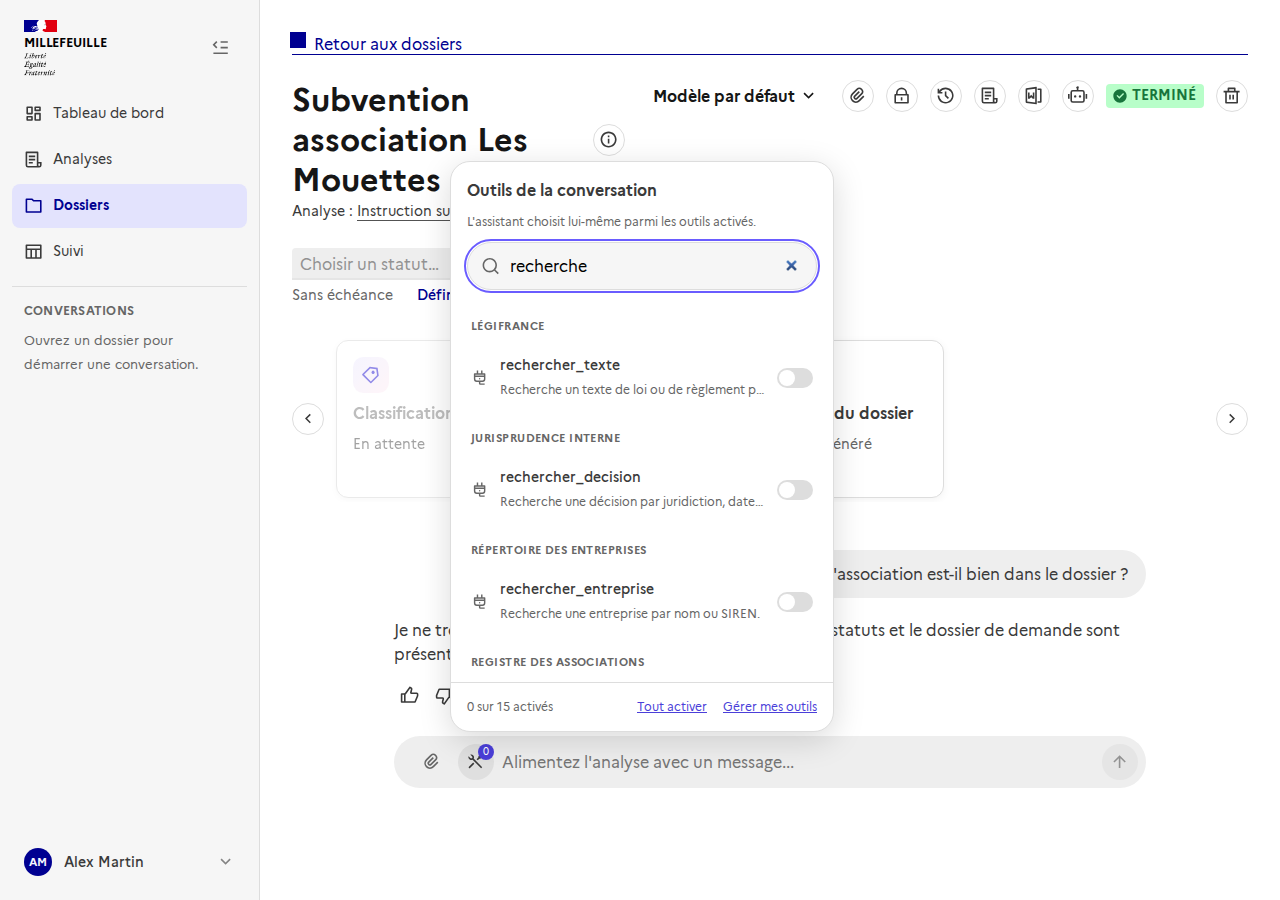
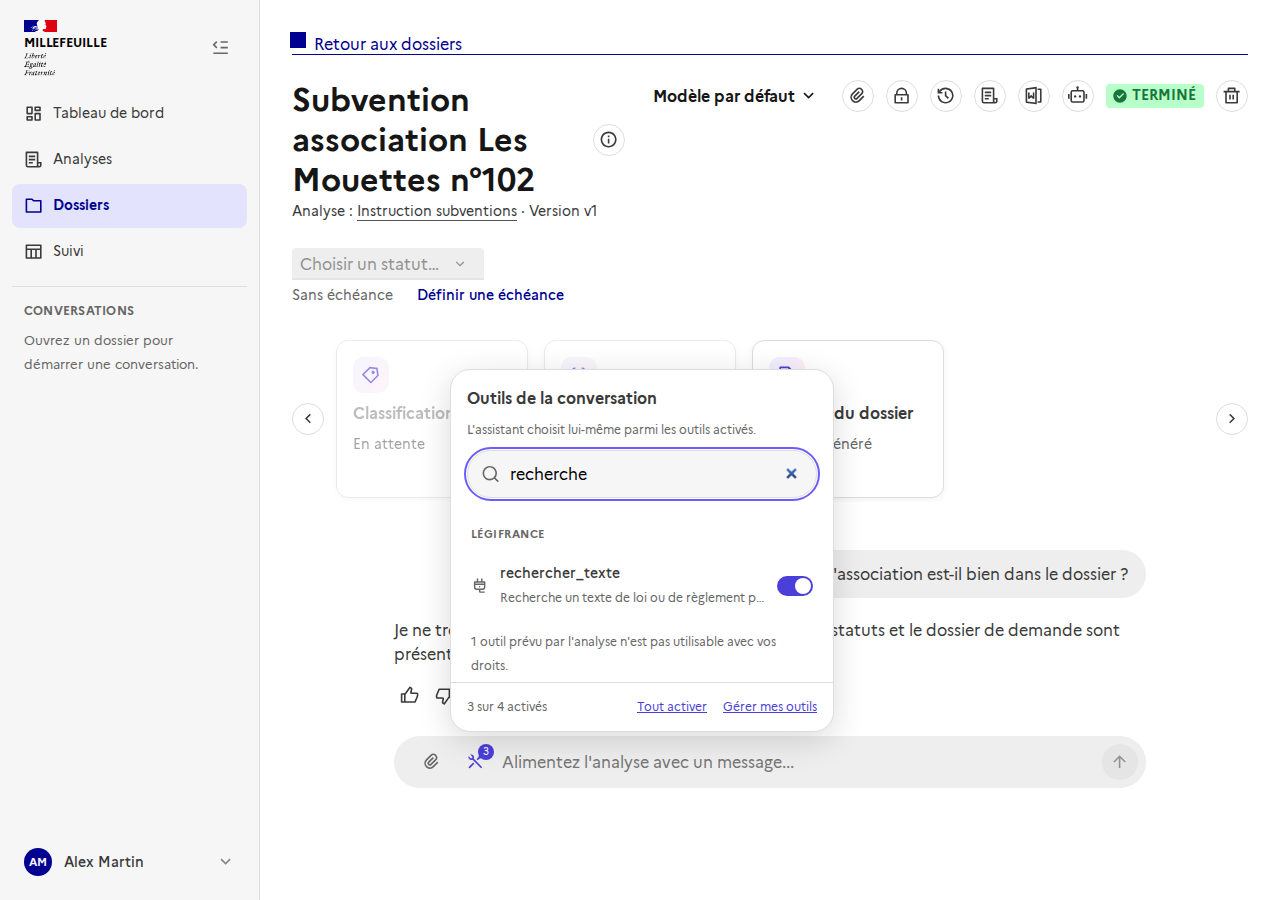
feat(tools): menu des outils du chat branché sur l'API, plus de données simulées
Le menu liste les outils de l'analyse, groupés par serveur, avec un interrupteur par outil ; le
choix est enregistré pour la conversation. Un outil qui modifie des données est montré verrouillé
avec la raison ; un outil prévu mais inaccessible est signalé. Sans outil, pas de menu.
La carte de confirmation reste simulée et masquée.

diff --git a/frontend/src/components/tools/ChatToolsMenu.vue b/frontend/src/components/tools/ChatToolsMenu.vue
@@ -1,19 +1,22 @@
 <script setup lang="ts">
-import { computed, onBeforeUnmount, onMounted, ref } from "vue";
+import { computed, onBeforeUnmount, onMounted, ref, toRef, watch } from "vue";
 
 import ChatToolsMenuRow from "@/components/tools/ChatToolsMenuRow.vue";
 import ToolSearchInput from "@/components/tools/ToolSearchInput.vue";
-import { useTools } from "@/composables/useTools";
-import type { Tool } from "@/types/tool";
+import { useConversationTools } from "@/composables/useConversationTools";
+import type { ChatTool } from "@/types/chatTool";
 import { matchesSearch } from "@/utils/toolSearch";
 
-// `toolIds` : les outils que l'analyse autorise ; `activeIds` : ceux que la personne laisse actifs pour cette
-// conversation. Elle ne peut que retirer, jamais ajouter un outil que l'analyse n'autorise pas.
-const props = defineProps<{ toolIds: string[] }>();
-const activeIds = defineModel<string[]>("activeIds", { required: true });
+// Les outils que l'analyse autorise pour cette conversation. L'assistant choisit lui-même parmi ceux qui sont activés ;
+// la personne ne peut que retirer, jamais ajouter un outil que l'analyse n'autorise pas.
+const props = defineProps<{ dossierId: string; conversationId: string | undefined }>();
 
-const { internalTools, servers, fetchTools } = useTools();
-onMounted(() => fetchTools());
+const { tools, excluded, unavailable, error, load, setExcluded } = useConversationTools(
+  props.dossierId,
+  toRef(props, "conversationId"),
+);
+onMounted(load);
+watch(() => props.conversationId, load);
 
 const root = ref<HTMLElement>();
 const opened = ref(false);
@@ -22,36 +25,37 @@ const query = ref("");
 interface Section {
   id: string;
   title: string;
-  tools: Tool[];
+  tools: ChatTool[];
 }
 
-const sections = computed<Section[]>(() =>
-  [
-    { id: "internal", title: "Outils internes", tools: internalTools.value },
-    ...servers.value.map((server) => ({ id: server.id, title: server.name, tools: server.tools })),
-  ]
-    .map((section) => ({
-      ...section,
-      tools: section.tools.filter(
-        (tool) => props.toolIds.includes(tool.id) && matchesSearch(query.value, `${tool.name} ${tool.description} ${section.title}`),
-      ),
-    }))
-    .filter((section) => section.tools.length > 0),
-);
+const sections = computed<Section[]>(() => {
+  const matching = tools.value.filter((tool) =>
+    matchesSearch(query.value, `${tool.name} ${tool.description} ${tool.serverName ?? ""}`),
+  );
+  const internal = matching.filter((tool) => tool.kind === "internal");
+  const byServer = new Map<string, ChatTool[]>();
+  for (const tool of matching.filter((candidate) => candidate.kind === "mcp")) {
+    byServer.set(tool.serverName ?? "", [...(byServer.get(tool.serverName ?? "") ?? []), tool]);
+  }
+  return [
+    { id: "internal", title: "Outils internes", tools: internal },
+    ...[...byServer].map(([name, list]) => ({ id: name, title: name, tools: list })),
+  ].filter((section) => section.tools.length > 0);
+});
 
-const isRestricted = computed(() => activeIds.value.length < props.toolIds.length);
+// Seuls les outils que le modèle peut appeler comptent : un outil qui modifie des données est montré, désactivé.
+const callable = computed(() => tools.value.filter((tool) => tool.givenToModel));
+const activeCount = computed(() => callable.value.filter((tool) => !excluded.value.includes(tool.id)).length);
+const isRestricted = computed(() => activeCount.value < callable.value.length);
+const hasAnything = computed(() => tools.value.length > 0 || unavailable.value.length > 0);
 
-function isActive(id: string) {
-  return activeIds.value.includes(id);
-}
+const isActive = (tool: ChatTool) => tool.givenToModel && !excluded.value.includes(tool.id);
 
 function setActive(id: string, active: boolean) {
-  activeIds.value = active ? [...activeIds.value, id] : activeIds.value.filter((activeId) => activeId !== id);
+  setExcluded(active ? excluded.value.filter((removed) => removed !== id) : [...excluded.value, id]);
 }
 
-function enableAll() {
-  activeIds.value = [...props.toolIds];
-}
+const enableAll = () => setExcluded([]);
 
 function onDocumentClick(event: MouseEvent) {
   if (opened.value && root.value && !root.value.contains(event.target as Node)) opened.value = false;
@@ -72,7 +76,7 @@ onBeforeUnmount(() => {
 </script>
 
 <template>
-  <div ref="root" class="chat-tools-menu">
+  <div v-if="hasAnything" ref="root" class="chat-tools-menu">
     <button
       type="button"
       class="chat-tools-menu__trigger"
@@ -83,7 +87,7 @@ onBeforeUnmount(() => {
       @click="opened = !opened"
     >
       <VIcon name="ri-tools-line" />
-      <span v-if="isRestricted" class="chat-tools-menu__count">{{ activeIds.length }}</span>
+      <span v-if="isRestricted" class="chat-tools-menu__count">{{ activeCount }}</span>
     </button>
 
     <div v-if="opened" class="chat-tools-menu__panel" role="dialog" aria-label="Outils de la conversation">
@@ -100,17 +104,23 @@ onBeforeUnmount(() => {
             <ChatToolsMenuRow
               v-for="tool in section.tools"
               :key="tool.id"
-              :model-value="isActive(tool.id)"
+              :model-value="isActive(tool)"
               :tool="tool"
               @update:model-value="setActive(tool.id, $event)"
             />
           </ul>
         </section>
         <p v-if="sections.length === 0" class="chat-tools-menu__empty">Aucun outil ne correspond.</p>
+        <p v-if="unavailable.length > 0" class="chat-tools-menu__unavailable">
+          {{ unavailable.length }} outil{{ unavailable.length > 1 ? "s" : "" }} prévu{{ unavailable.length > 1 ? "s" : "" }}
+          par l'analyse {{ unavailable.length > 1 ? "ne sont" : "n'est" }} pas utilisable{{ unavailable.length > 1 ? "s" : "" }}
+          avec vos droits.
+        </p>
+        <p v-if="error" class="chat-tools-menu__unavailable" role="alert">{{ error }}</p>
       </div>
 
       <div class="chat-tools-menu__footer">
-        <span>{{ activeIds.length }} sur {{ toolIds.length }} activés</span>
+        <span>{{ activeCount }} sur {{ callable.length }} activés</span>
         <button v-if="isRestricted" type="button" class="chat-tools-menu__link" @click="enableAll">Tout activer</button>
         <RouterLink to="/outils" class="chat-tools-menu__link">Gérer mes outils</RouterLink>
       </div>
@@ -219,6 +229,12 @@ onBeforeUnmount(() => {
   margin: 1.5rem 0;
   text-align: center;
   font-size: 0.875rem;
+  color: var(--text-mention-grey);
+}
+
+.chat-tools-menu__unavailable {
+  margin: 0.75rem 0.75rem 0.25rem;
+  font-size: 0.75rem;
   color: var(--text-mention-grey);
 }
 

diff --git a/frontend/src/composables/useConversationTools.ts b/frontend/src/composables/useConversationTools.ts
@@ -1,0 +1,73 @@
+import { ref, type Ref } from "vue";
+
+import type { ChatTool } from "@/types/chatTool";
+import { apiFetch } from "@/utils/api";
+
+// Les outils d'une conversation du chat : ceux que l'analyse autorise (ses agents), moins ceux que la personne a
+// retirés. Par défaut tout est actif et le modèle choisit ; la personne ne peut que retirer.
+
+interface ChatToolOut {
+  id: string;
+  name: string;
+  description: string;
+  kind: "internal" | "mcp";
+  server_name: string | null;
+  side_effect: boolean;
+  given_to_model: boolean;
+}
+
+interface ConversationToolsOut {
+  tools: ChatToolOut[];
+  excluded: string[];
+  unavailable: string[];
+}
+
+const toChatTool = (raw: ChatToolOut): ChatTool => ({
+  id: raw.id,
+  name: raw.name,
+  description: raw.description,
+  kind: raw.kind,
+  serverName: raw.server_name,
+  sideEffect: raw.side_effect,
+  givenToModel: raw.given_to_model,
+});
+
+export function useConversationTools(dossierId: string, conversationId: Ref<string | undefined>) {
+  const tools = ref<ChatTool[]>([]);
+  const excluded = ref<string[]>([]);
+  const unavailable = ref<string[]>([]);
+  const error = ref("");
+
+  const url = () => `/api/dossiers/${dossierId}/conversations/${conversationId.value}/tools`;
+
+  function apply(data: ConversationToolsOut) {
+    tools.value = data.tools.map(toChatTool);
+    excluded.value = data.excluded;
+    unavailable.value = data.unavailable;
+  }
+
+  async function load() {
+    if (!conversationId.value) return;
+    error.value = "";
+    try {
+      apply(await apiFetch<ConversationToolsOut>(url()));
+    } catch (e) {
+      error.value = e instanceof Error ? e.message : "Impossible de charger les outils.";
+    }
+  }
+
+  /** Retire ces outils pour la conversation (les autres restent actifs). La liste change tout de suite, puis l'API confirme. */
+  async function setExcluded(ids: string[]) {
+    if (!conversationId.value) return;
+    const previous = excluded.value;
+    excluded.value = ids;
+    try {
+      apply(await apiFetch<ConversationToolsOut>(url(), { method: "PUT", body: JSON.stringify({ excluded: ids }) }));
+    } catch (e) {
+      excluded.value = previous;
+      error.value = e instanceof Error ? e.message : "Impossible d'enregistrer ce choix.";
+    }
+  }
+
+  return { tools, excluded, unavailable, error, load, setExcluded };
+}

diff --git a/frontend/src/components/tools/ChatToolsMenuRow.vue b/frontend/src/components/tools/ChatToolsMenuRow.vue
@@ -1,21 +1,31 @@
 <script setup lang="ts">
-import type { Tool } from "@/types/tool";
+import type { ChatTool } from "@/types/chatTool";
 
-defineProps<{ tool: Tool }>();
+defineProps<{ tool: ChatTool }>();
 const active = defineModel<boolean>({ required: true });
 </script>
 
 <template>
-  <li class="chat-tools-row">
+  <li class="chat-tools-row" :class="{ 'chat-tools-row--locked': !tool.givenToModel }">
     <span class="chat-tools-row__icon"><VIcon :name="tool.kind === 'mcp' ? 'ri-plug-line' : 'ri-tools-line'" scale="0.9" /></span>
     <span class="chat-tools-row__text" :title="tool.description">
       <span class="chat-tools-row__name">
         {{ tool.name }}
-        <VIcon v-if="tool.sideEffect" name="ri-edit-2-line" scale="0.7" class="chat-tools-row__edit" title="Demande une confirmation avant appel" />
+        <VIcon v-if="tool.sideEffect" name="ri-edit-2-line" scale="0.7" class="chat-tools-row__edit" />
       </span>
-      <span class="chat-tools-row__description">{{ tool.description }}</span>
+      <span class="chat-tools-row__description">
+        <template v-if="!tool.givenToModel">Modifie des données : pas encore utilisable dans le chat (confirmation à venir)</template>
+        <template v-else>{{ tool.description }}</template>
+      </span>
     </span>
-    <input v-model="active" type="checkbox" role="switch" class="chat-tools-row__switch" :aria-label="tool.name" />
+    <input
+      v-model="active"
+      type="checkbox"
+      role="switch"
+      class="chat-tools-row__switch"
+      :aria-label="tool.name"
+      :disabled="!tool.givenToModel"
+    />
   </li>
 </template>
 
@@ -30,6 +40,10 @@ const active = defineModel<boolean>({ required: true });
 
 .chat-tools-row:hover {
   background: var(--background-alt-grey);
+}
+
+.chat-tools-row--locked {
+  opacity: 0.6;
 }
 
 .chat-tools-row__icon {
@@ -72,6 +86,10 @@ const active = defineModel<boolean>({ required: true });
   background: var(--border-default-grey);
   cursor: pointer;
   transition: background 0.15s ease;
+}
+
+.chat-tools-row__switch:disabled {
+  cursor: not-allowed;
 }
 
 .chat-tools-row__switch::after {

diff --git a/frontend/src/pages/DossierDetailPage.vue b/frontend/src/pages/DossierDetailPage.vue
@@ -23,7 +23,6 @@ import ChatToolsMenu from "@/components/tools/ChatToolsMenu.vue";
 import ToolConfirmCard from "@/components/tools/ToolConfirmCard.vue";
 import { useConversations } from "@/composables/useConversations";
 import { useToolConfirmation } from "@/composables/useToolConfirmation";
-import { useChatTools } from "@/composables/useChatTools";
 import { TOOLS_PREVIEW } from "@/utils/featureFlags";
 import { useDossiers } from "@/composables/useDossiers";
 import { useHelperAgent } from "@/composables/useHelperAgent";
@@ -157,10 +156,7 @@ function onModelChange(value: string) {
   setModel(value || null);
 }
 
-// Aperçu (phase 1, données simulées) : outils de l'analyse et confirmation avant un tool qui modifie des données.
-const { chatToolIds } = useChatTools();
-// Outils laissés actifs pour cette conversation : tout est actif par défaut, la personne ne peut que retirer.
-const activeChatToolIds = ref<string[]>(chatToolIds());
+// Confirmation avant un outil qui modifie des données : aperçu simulé (#342), masqué par défaut.
 const { pendingToolCall, resolveToolCall } = useToolConfirmation();
 
 const dossier = computed(() => dossiers.value.find((d) => d.id === dossierId));
@@ -535,8 +531,8 @@ async function onDeleteConversation() {
         />
       </template>
 
-      <template v-if="TOOLS_PREVIEW" #composer-actions>
-        <ChatToolsMenu v-model:active-ids="activeChatToolIds" :tool-ids="chatToolIds()" />
+      <template #composer-actions>
+        <ChatToolsMenu :dossier-id="dossierId" :conversation-id="conversation?.id" />
       </template>
 
       <template #message-extra="{ message }">

diff --git a/frontend/src/types/chatTool.ts b/frontend/src/types/chatTool.ts
@@ -1,0 +1,13 @@
+/** Un outil que l'analyse autorise pour le chat d'un dossier, tel que cette personne peut l'utiliser. */
+export interface ChatTool {
+  id: string;
+  name: string;
+  description: string;
+  kind: "internal" | "mcp";
+  /** Le serveur MCP d'où il vient ; null pour un outil interne. */
+  serverName: string | null;
+  /** Il modifie des données : il demandera une confirmation. */
+  sideEffect: boolean;
+  /** Le modèle peut-il l'appeler ? Faux pour un outil qui modifie des données, tant qu'il n'y a pas de confirmation. */
+  givenToModel: boolean;
+}

diff --git a/docs/frontend/tools/README.md b/docs/frontend/tools/README.md
@@ -9,14 +9,15 @@
 | **Mes outils** (`/outils`) : liste, recherche, pagination, ajout d'un serveur MCP, import, actualiser, supprimer | **réel**, branché sur l'API (#333, #334, #335) | `page-outils*.png`, `ajout-serveur*.png`, `import-tools.png` |
 | **Outils d'un agent** : sélecteur (recherche, filtres, pagination), enregistrement, historique et restauration, outil devenu indisponible | **réel** (#336, #337) | `selecteur-*.png`, `agent-*.png` |
 | **Test unitaire** d'un outil MCP : demande, choix du modèle, sortie brute | **réel** (#339) ; réservé aux tools MCP (les internes sont exécutés par le worker) | `test-outil-*.png` |
-| Menu des outils du chat, confirmation avant un outil qui modifie des données | simulé (#341, #342) | `chat-*.png` |
+| **Menu des outils du chat** : outils de l'analyse, retrait par conversation, outil qui modifie des données verrouillé | **réel** (#341) | `chat-menu-*.png`, `chat-outils*.png` |
+| Confirmation avant un outil qui modifie des données | simulé (#342) | `chat-confirmation.png` |
 | Collections de la base de connaissances d'une analyse | simulé, épique « base de connaissances » à venir | `collections-*.png` |
 
 ## Les écrans simulés sont masqués par défaut
 
 Une seule bascule, `VITE_TOOLS_PREVIEW` (`frontend/src/utils/featureFlags.ts`), les affiche. Sans elle :
 
-- le chat est inchangé ;
+- le chat n'a pas de carte de confirmation ;
 - il n'y a pas de bloc de collections.
 
 ```bash

diff --git a/docs/tools-mcp-plan.md b/docs/tools-mcp-plan.md
@@ -17,7 +17,7 @@ Ordre retenu : **UI sur mocks d'abord**, puis backend, puis worker (design épur
 | 4. Identité et appel (#334) | **fait** : échange de jeton Keycloak à partir de la session, vérifié contre un vrai Keycloak ; compte de service et jeton statique prévus, grisés |
 | 5. Proxy d'appel (#338) et test unitaire (#339) | **fait** : route interne, quotas, journal, sortie bornée ; test d'un tool MCP avec un modèle au choix (consommation comptée) ; tester un outil interne viendra avec le worker (#340) |
 | 6. Worker (#340) | **fait** : calculatrice, calcul de dates et tools MCP donnés aux agents (au nom de la personne qui lance l'analyse), sortie externe balisée comme non fiable ; le socle de lecture du dossier reste toujours donné ; détail dans [backend/outils-des-agents.md](backend/outils-des-agents.md) |
-| 7. Chat | à faire (#341, #342) : menu des outils et confirmation, simulés et masqués |
+| 7. Chat | menu des outils (#341) **fait** : outils de l'analyse, retrait par conversation, outils MCP appelés au nom de l'auteur ; la confirmation avant un outil qui modifie des données (#342) reste **à faire** et masquée |
 | 8. Préparation de la suite | à faire |
 
 ### Ce qui existe côté backend
